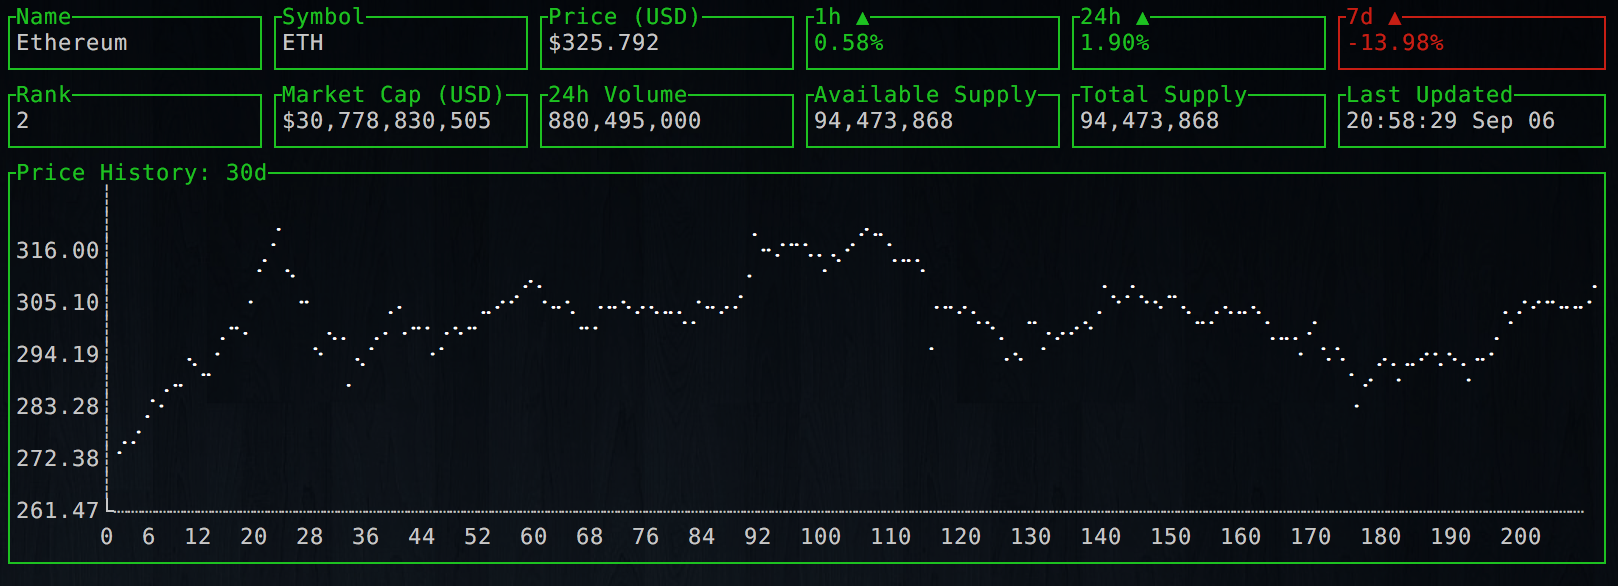
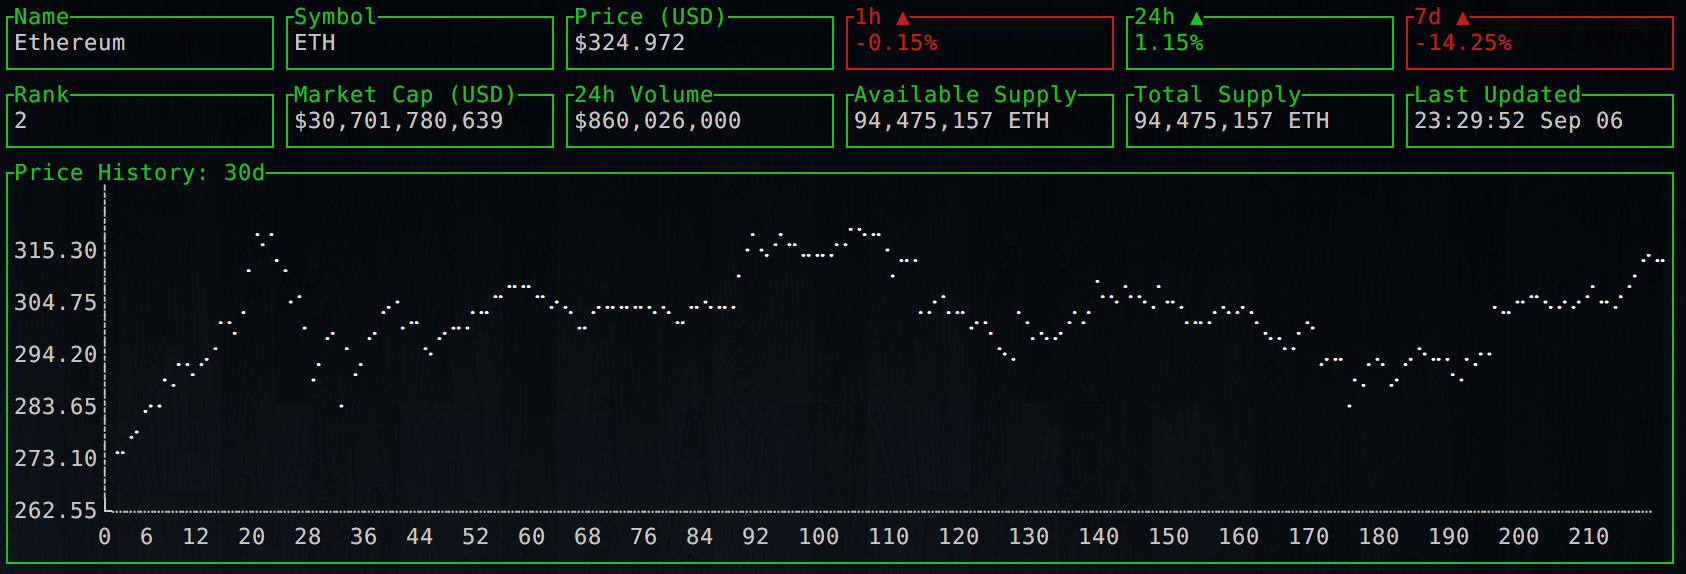
format

diff --git a/cryptodash/main.go b/cryptodash/main.go
@@ -173,7 +173,7 @@ func Render(coin string, dateRange string) {
   par7.BorderLabel = "Market Cap (USD)"
   par7.BorderFg = ui.ColorGreen
 
-  par8 := ui.NewPar(humanize.Commaf(coinInfo.Usd24hVolume))
+  par8 := ui.NewPar(fmt.Sprintf("$%s", humanize.Commaf(coinInfo.Usd24hVolume)))
   par8.Height = 3
   par8.Width = 20
   par8.Y = 1
@@ -181,7 +181,7 @@ func Render(coin string, dateRange string) {
   par8.BorderLabel = "24h Volume"
   par8.BorderFg = ui.ColorGreen
 
-  par9 := ui.NewPar(humanize.Commaf(coinInfo.AvailableSupply))
+  par9 := ui.NewPar(fmt.Sprintf("%s %s", humanize.Commaf(coinInfo.AvailableSupply), coinInfo.Symbol))
   par9.Height = 3
   par9.Width = 20
   par9.Y = 1
@@ -189,7 +189,7 @@ func Render(coin string, dateRange string) {
   par9.BorderLabel = "Available Supply"
   par9.BorderFg = ui.ColorGreen
 
-  par10 := ui.NewPar(humanize.Commaf(coinInfo.TotalSupply))
+  par10 := ui.NewPar(fmt.Sprintf("%s %s", humanize.Commaf(coinInfo.TotalSupply), coinInfo.Symbol))
   par10.Height = 3
   par10.Width = 20
   par10.Y = 1
